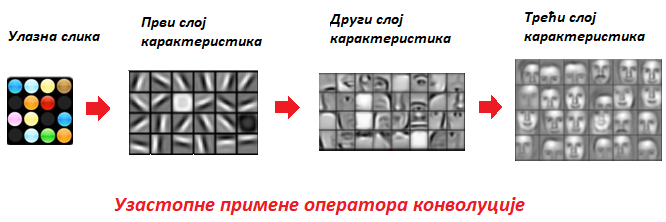
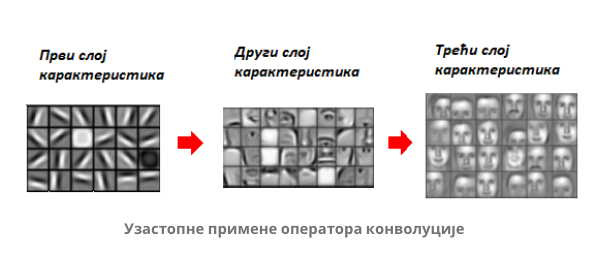
Obrisane reference na stare slike u lekciji Konvolutivne neuronske mreze

diff --git a/_sources/10_Neuronske mreze vrste i primena/102_Konvolutivne neuronske mreze.rst b/_sources/10_Neuronske mreze vrste i primena/102_Konvolutivne neuronske mreze.rst
@@ -84,20 +84,26 @@
 |
 
 Доња анимација илуструје цео процес примене филтера над сликом тј. над њеном матрицом. Као што можеш приметити, коришћен је померај величине 1 и 
-проширење величине 1.
+проширење величине 0.
 
-.. figure:: ../../_images/knm6.png
+.. figure:: ../../_images/knm6.gif
     :width: 600
     :align: center
 
-**ТОДО: прилагодити димензије слика и обележја**
+*Анимација операције конволуције*
 
 -------
 
 Ако филтер из примера применимо користећи операцију конволуције над почетном сликом маце, добићемо доњу слику. Можемо да приметимо да су 
 на њој наглашене све вертикалне линије које се појављују на слици.
 
-**ТОДО: слика**
+.. figure:: ../../_images/maca_vertikalne_ivice.png
+    :width: 420
+    :align: center
+
+*Издвајање вертикалних ивица*
+
+-------
 
 |
 
@@ -156,10 +162,6 @@
     :width: 700
     :align: center
 
-**ТОДО: избацити улазну слику и прилагодити терминологију**
-
-(слика је преузета са https://i.stack.imgur.com/fz6eL.png)
-
 -------
 
 Уз операцију конволуције, конволутивне мреже карактерише и операција **агрегације** (енгл. *pooling*). Као што само име каже, циљ ове операције да 
@@ -197,8 +199,6 @@
 .. figure:: ../../_images/knm9.png
     :width: 780
     :align: center
-
-(слика је преузета са https://www.analyticsvidhya.com/blog/2022/01/convolutional-neural-network-an-overview/)
 
 -------
 
